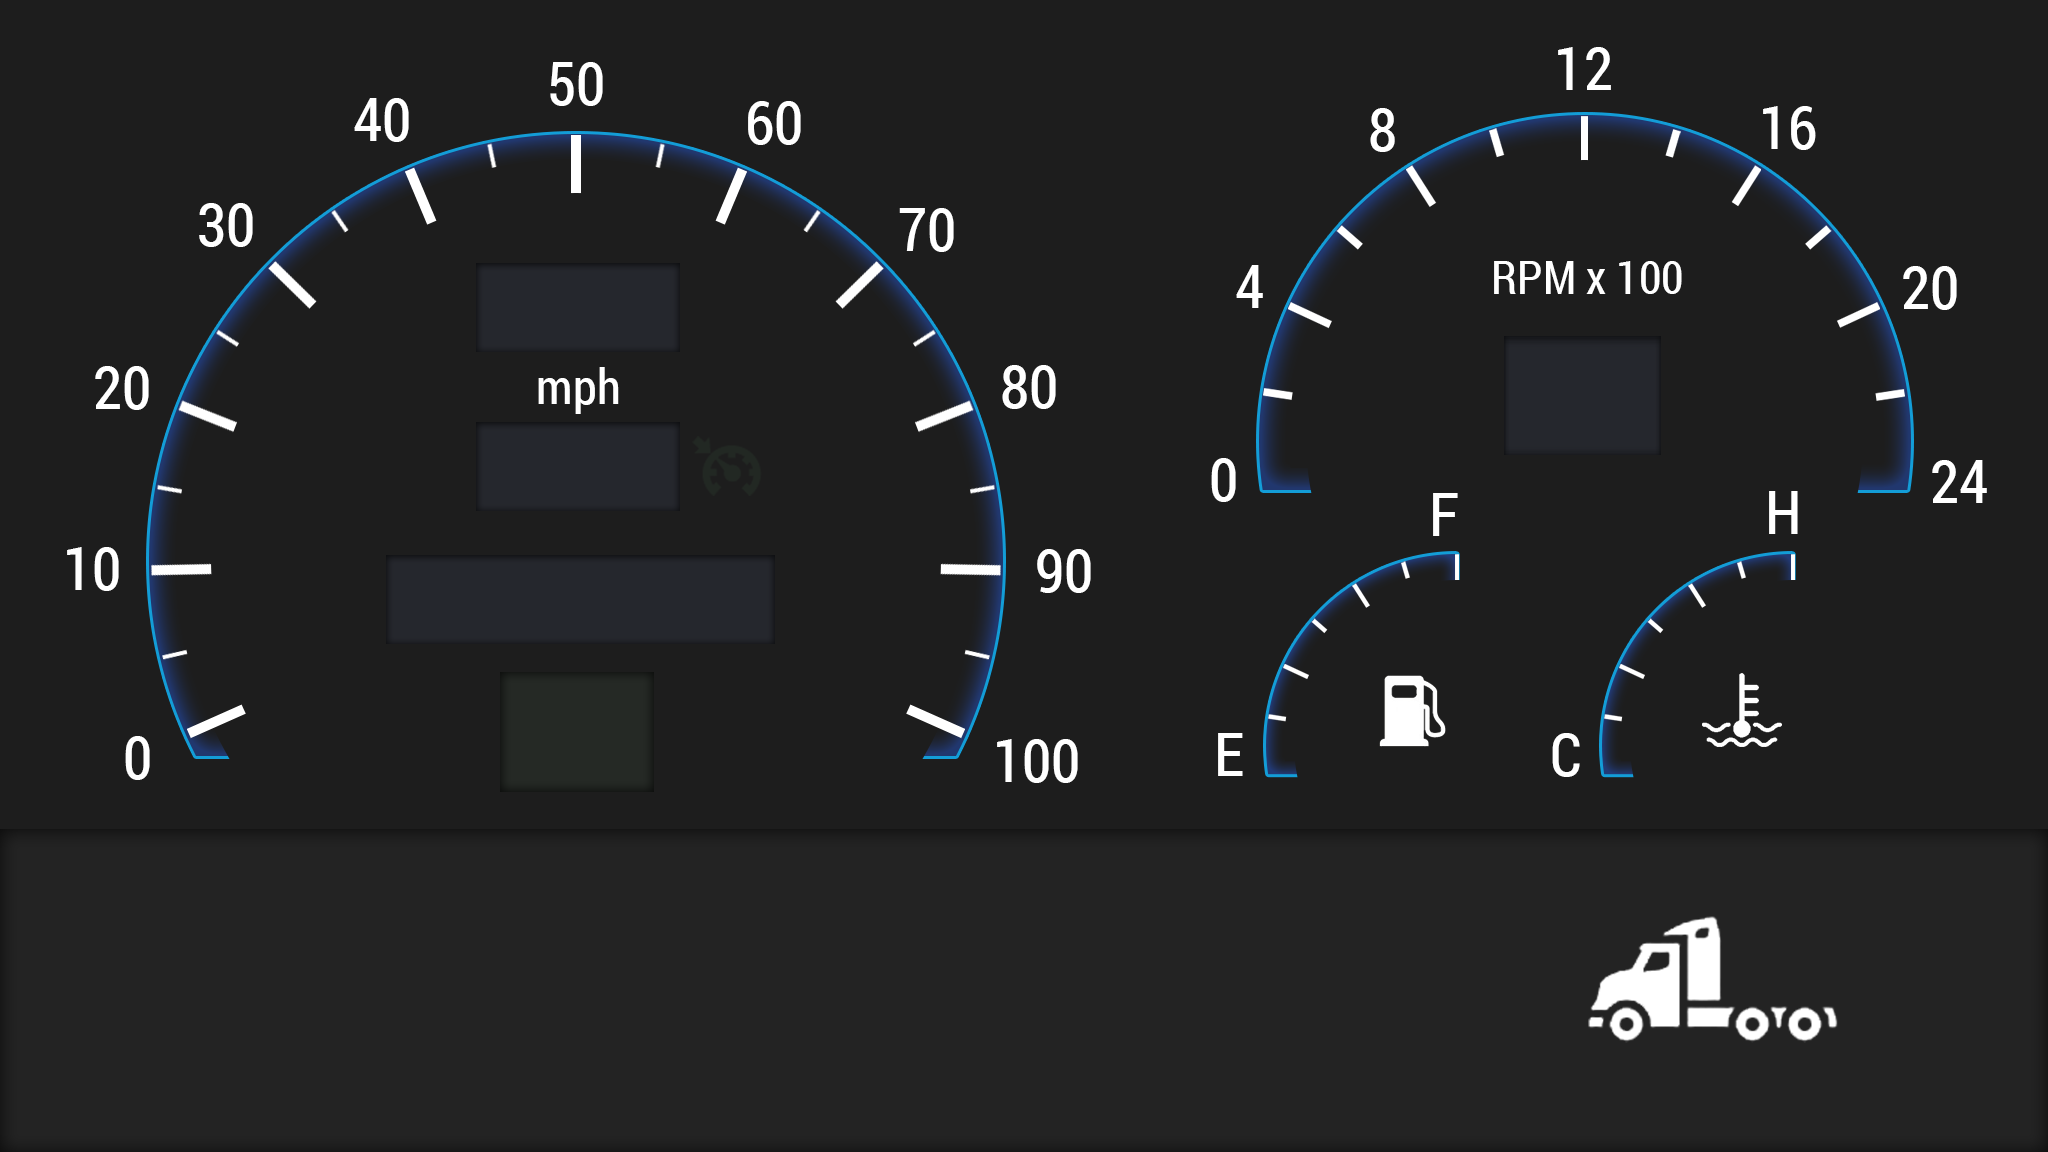
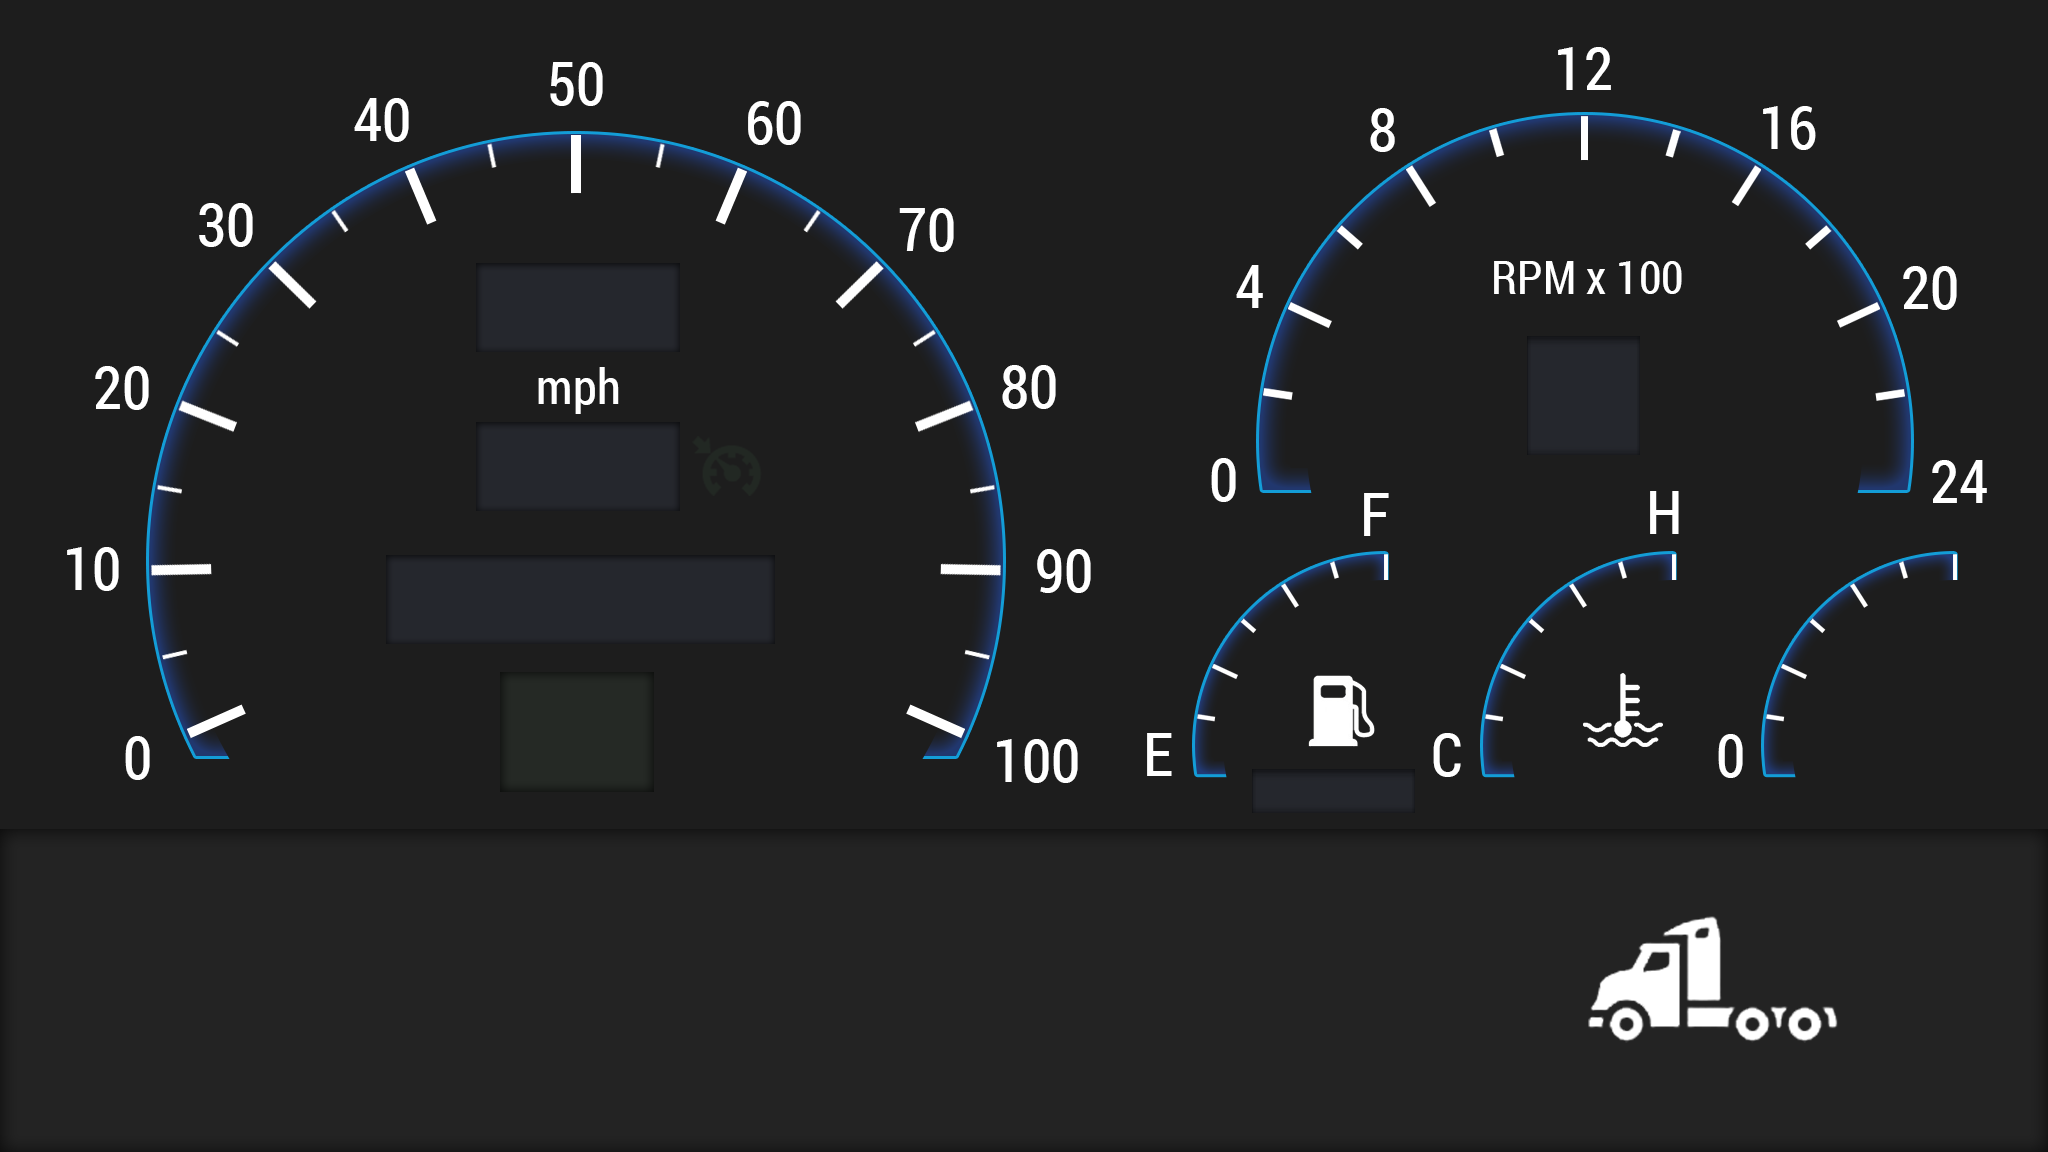
Add default skin readme.txt & AvgFuel & AirPressure

diff --git a/server/Html/skins/default-mph/dashboard.js b/server/Html/skins/default-mph/dashboard.js
@@ -17,7 +17,8 @@
         'images/parklights-off.png', 'images/parklights-on.png',
         'images/trailer-off.png', 'images/trailer-on.png',
 		'images/parking-off.png', 'images/parking-on.png',
-		'images/speed-limit.png'
+		'images/speed-limit.png', 'images/airPressureEmergency-on.png',
+		'images/airPressureEmergency-off.png'
     ]);
 
     // return to menu by a click
@@ -52,6 +53,9 @@ Funbit.Ets.Telemetry.Dashboard.prototype.filter = function (data, utils) {
     data.trailer.mass = data.hasJob ? (Math.round(data.trailer.mass / 1000.0) + 't') : '';
     // format odometer data as: 00000.0
     data.truck.odometer = utils.formatFloat(data.truck.odometer, 1);
+	// format fuelAverageConsumption data as: 000.0
+	data.truck.fuelAverageConsumption = data.truck.fuelAverageConsumption * 1000;
+	data.truck.fuelAverageConsumption = utils.formatFloat(data.truck.fuelAverageConsumption,1);
     // convert gear to readable format
     data.truck.gear = data.truck.displayedGear; // use displayed gear
     data.truck.gear = data.truck.gear > 0
@@ -71,9 +75,6 @@ Funbit.Ets.Telemetry.Dashboard.prototype.filter = function (data, utils) {
 	if (data.truck.retarderStepCount == '0') {
 		data.truck.retarderBrake = '';
 	}
-	else {
-		data.truck.retarderBrake = data.truck.retarderBrake + "/" + data.truck.retarderStepCount;
-	};
 	// Is Own Trailler?
 	if (data.trailer.mass == "0t") {
 		data.trailer.name = "자가 트레일러";
@@ -87,13 +88,3 @@ Funbit.Ets.Telemetry.Dashboard.prototype.filter = function (data, utils) {
     // return changed data to the core for rendering
     return data;
 };
-
-Funbit.Ets.Telemetry.Dashboard.prototype.render = function (data, utils) {
-    //
-    // data - same data object as in the filter function
-    // utils - an object containing several utility functions (see skin tutorial for more information)
-    //
-
-    // we don't have anything custom to render in this skin,
-    // but you may use jQuery here to update DOM or CSS
-}

diff --git a/server/Html/skins/default/dashboard.js b/server/Html/skins/default/dashboard.js
@@ -17,7 +17,8 @@
         'images/parklights-off.png', 'images/parklights-on.png',
         'images/trailer-off.png', 'images/trailer-on.png',
 		'images/parking-off.png', 'images/parking-on.png',
-		'images/speed-limit.png'
+		'images/speed-limit.png', 'images/airPressureEmergency-on.png',
+		'images/airPressureEmergency-off.png'
     ]);
 
     // return to menu by a click
@@ -50,6 +51,9 @@ Funbit.Ets.Telemetry.Dashboard.prototype.filter = function (data, utils) {
     data.trailer.mass = data.hasJob ? (Math.round(data.trailer.mass / 1000.0) + 't') : '';
     // format odometer data as: 00000.0
     data.truck.odometer = utils.formatFloat(data.truck.odometer, 1);
+	// format fuelAverageConsumption data as: 000.0
+	data.truck.fuelAverageConsumption = data.truck.fuelAverageConsumption * 1000;
+	data.truck.fuelAverageConsumption = utils.formatFloat(data.truck.fuelAverageConsumption,1);
     // convert gear to readable format
     data.truck.gear = data.truck.displayedGear; // use displayed gear
     data.truck.gear = data.truck.gear > 0
@@ -69,9 +73,6 @@ Funbit.Ets.Telemetry.Dashboard.prototype.filter = function (data, utils) {
 	if (data.truck.retarderStepCount == '0') {
 		data.truck.retarderBrake = '';
 	}
-	else {
-		data.truck.retarderBrake = data.truck.retarderBrake + "/" + data.truck.retarderStepCount;
-	};
 	// Is Own Trailler?
 	if (data.trailer.mass == "0t") {
 		data.trailer.name = "자가 트레일러";
@@ -85,13 +86,3 @@ Funbit.Ets.Telemetry.Dashboard.prototype.filter = function (data, utils) {
     // return changed data to the core for rendering
     return data;
 };
-
-Funbit.Ets.Telemetry.Dashboard.prototype.render = function (data, utils) {
-    //
-    // data - same data object as in the filter function
-    // utils - an object containing several utility functions (see skin tutorial for more information)
-    //
-
-    // we don't have anything custom to render in this skin,
-    // but you may use jQuery here to update DOM or CSS
-}

diff --git a/server/Html/skins/default-mph/dashboard.css b/server/Html/skins/default-mph/dashboard.css
@@ -66,7 +66,7 @@
 }
 .truck-fuel {
   position: absolute;
-  left: 1452px;
+  left: 1380px;
   top: 546px;
   width: 10px;
   height: 60px;
@@ -84,7 +84,7 @@
 }
 .truck-waterTemperature {
   position: absolute;
-  left: 1788px;
+  left: 1668px;
   top: 546px;
   width: 10px;
   height: 60px;
@@ -99,6 +99,49 @@
   -ms-transform-origin: 50% 198px;
   -o-transform-origin: 50% 198px;
   transform-origin: 50% 198px;
+}
+.truck-airPressure {
+  position: absolute;
+  left: 1950px;
+  top: 546px;
+  width: 10px;
+  height: 60px;
+  background-color: #cd0000;
+  -webkit-transform: rotate(0deg);
+  -moz-transform: rotate(0deg);
+  -ms-transform: rotate(0deg);
+  -o-transform: rotate(0deg);
+  transform: rotate(0deg);
+  -webkit-transform-origin: 50% 198px;
+  -moz-transform-origin: 50% 198px;
+  -ms-transform-origin: 50% 198px;
+  -o-transform-origin: 50% 198px;
+  transform-origin: 50% 198px;
+}
+.truck-airPressureEmergencyOn {
+  background-image: url("images/airPressureEmergency-off.png");
+  position: absolute;
+  left: 1860px;
+  top: 675px;
+  width: 104px;
+  height: 82px;
+  opacity: 0.5;
+}
+.truck-airPressureEmergencyOn.yes {
+  background-image: url("images/airPressureEmergency-on.png");
+  opacity: 1.0;
+}
+.truck-fuelAverageConsumption {
+  color: #2491b9;
+  font-family: Courier New, Courier, monospace;
+  font-weight: bold;
+  font-size: 35px;
+  position: absolute;
+  left: 1198px;
+  top: 773px;
+  width: 190px;
+  height: 66px;
+  text-align: right;
 }
 .truck-speedRounded,
 .truck-cruiseControlSpeedRounded {
@@ -206,13 +249,15 @@
 .truck-parkBrakeOn {
   background-image: url("images/parking-off.png");
   position: absolute;
-  left: 1160px;
-  top: 550px;
+  left: 1120px;
+  top: 520px;
   width: 104px;
   height: 82px;
+  opacity: 0.5;
 }
 .truck-parkBrakeOn.yes {
   background-image: url("images/parking-on.png");
+  opacity: 1.0;
 }
 .truck-cruiseControlSpeedRounded {
   color: #24b999;

diff --git a/server/Html/skins/default/dashboard.css b/server/Html/skins/default/dashboard.css
@@ -66,7 +66,7 @@
 }
 .truck-fuel {
   position: absolute;
-  left: 1452px;
+  left: 1380px;
   top: 546px;
   width: 10px;
   height: 60px;
@@ -84,7 +84,7 @@
 }
 .truck-waterTemperature {
   position: absolute;
-  left: 1788px;
+  left: 1668px;
   top: 546px;
   width: 10px;
   height: 60px;
@@ -99,6 +99,49 @@
   -ms-transform-origin: 50% 198px;
   -o-transform-origin: 50% 198px;
   transform-origin: 50% 198px;
+}
+.truck-airPressure {
+  position: absolute;
+  left: 1950px;
+  top: 546px;
+  width: 10px;
+  height: 60px;
+  background-color: #cd0000;
+  -webkit-transform: rotate(0deg);
+  -moz-transform: rotate(0deg);
+  -ms-transform: rotate(0deg);
+  -o-transform: rotate(0deg);
+  transform: rotate(0deg);
+  -webkit-transform-origin: 50% 198px;
+  -moz-transform-origin: 50% 198px;
+  -ms-transform-origin: 50% 198px;
+  -o-transform-origin: 50% 198px;
+  transform-origin: 50% 198px;
+}
+.truck-airPressureEmergencyOn {
+  background-image: url("images/airPressureEmergency-off.png");
+  position: absolute;
+  left: 1860px;
+  top: 675px;
+  width: 104px;
+  height: 82px;
+  opacity: 0.5;
+}
+.truck-airPressureEmergencyOn.yes {
+  background-image: url("images/airPressureEmergency-on.png");
+  opacity: 1.0;
+}
+.truck-fuelAverageConsumption {
+  color: #2491b9;
+  font-family: Courier New, Courier, monospace;
+  font-weight: bold;
+  font-size: 35px;
+  position: absolute;
+  left: 1198px;
+  top: 773px;
+  width: 190px;
+  height: 66px;
+  text-align: right;
 }
 .truck-speedRounded,
 .truck-cruiseControlSpeedRounded {
@@ -206,13 +249,15 @@
 .truck-parkBrakeOn {
   background-image: url("images/parking-off.png");
   position: absolute;
-  left: 1160px;
-  top: 550px;
+  left: 1120px;
+  top: 520px;
   width: 104px;
   height: 82px;
+  opacity: 0.5;
 }
 .truck-parkBrakeOn.yes {
   background-image: url("images/parking-on.png");
+  opacity: 1.0;
 }
 .truck-cruiseControlSpeedRounded {
   color: #24b999;

diff --git a/server/Html/skins/default/dashboard.html b/server/Html/skins/default/dashboard.html
@@ -13,11 +13,13 @@
         <div class="truck-engineRpm" data-type="meter" data-min="0" data-max="24" data-min-angle="-97" data-max-angle="+97"></div>
         <div class="truck-fuel" data-type="meter" data-min="0" data-max="truck.fuelCapacity" data-min-angle="-96" data-max-angle="0"></div>
         <div class="truck-waterTemperature" data-type="meter" data-min="0" data-max="100" data-min-angle="-96" data-max-angle="0"></div>
+        <div class="truck-airPressure" data-type="meter" data-min="0" data-max="150" data-min-angle="-96" data-max-angle="0"></div>
         <div class="truck-odometer"></div>
         <div class="truck-cruiseControlSpeedRounded"></div>
         <div class="truck-gear"></div>
 		<div class="truck-retarderBrake"></div>
 		<div class="navigation-speedLimit"></div>
+		<div class="truck-fuelAverageConsumption"></div>
         <!-- indicators -->
         <div class="truck-blinkerLeftOn"></div>
         <div class="truck-blinkerRightOn"></div>
@@ -29,6 +31,7 @@
         <div class="trailer-mass"><span class="ton">t</span></div>
         <div class="trailer-name"></div>
 		<div class="truck-parkBrakeOn"></div>
+		<div class="truck-airPressureEmergencyOn"></div>
         <!-- job information -->
         <table class="_job">
             <tr>

diff --git a/server/Html/skins/default-mph/dashboard.html b/server/Html/skins/default-mph/dashboard.html
@@ -13,11 +13,13 @@
         <div class="truck-engineRpm" data-type="meter" data-min="0" data-max="24" data-min-angle="-97" data-max-angle="+97"></div>
         <div class="truck-fuel" data-type="meter" data-min="0" data-max="truck.fuelCapacity" data-min-angle="-96" data-max-angle="0"></div>
         <div class="truck-waterTemperature" data-type="meter" data-min="0" data-max="100" data-min-angle="-96" data-max-angle="0"></div>
+		<div class="truck-airPressure" data-type="meter" data-min="0" data-max="150" data-min-angle="-96" data-max-angle="0"></div>
         <div class="truck-odometer"></div>
         <div class="truck-cruiseControlSpeedRounded"></div>
         <div class="truck-gear"></div>
 		<div class="truck-retarderBrake"></div>
 		<div class="navigation-speedLimit"></div>
+		<div class="truck-fuelAverageConsumption"></div>
         <!-- indicators -->
         <div class="truck-blinkerLeftOn"></div>
         <div class="truck-blinkerRightOn"></div>
@@ -29,6 +31,7 @@
         <div class="trailer-mass"><span class="ton">t</span></div>
         <div class="trailer-name"></div>
 		<div class="truck-parkBrakeOn"></div>
+		<div class="truck-airPressureEmergencyOn"></div>
         <!-- job information -->
         <table class="_job">
             <tr>
